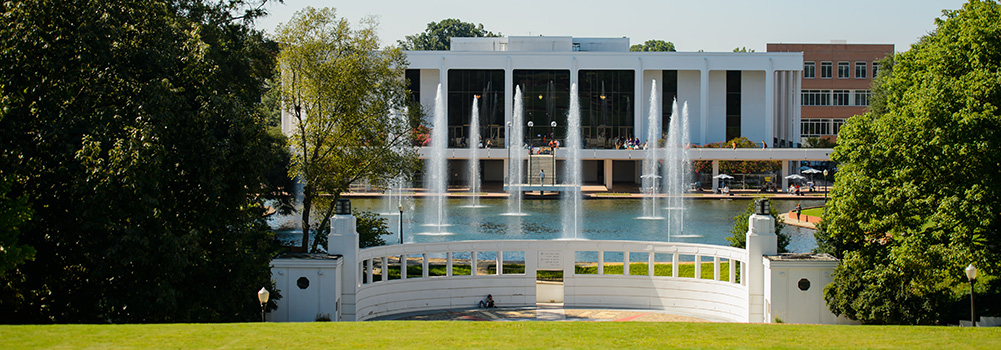
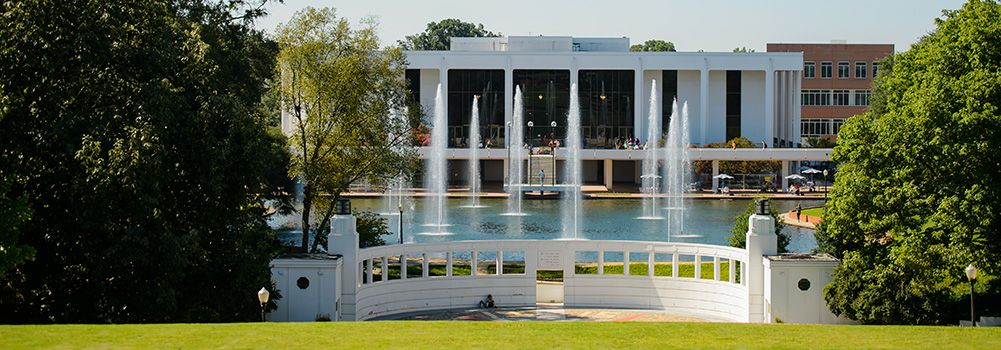
Optimize assests and prepare for web build

diff --git a/packages/backend/src/routes/data.ts b/packages/backend/src/routes/data.ts
@@ -70,8 +70,8 @@ const BUILDINGS: Building[] = [
     "WATT",
 ];
 
-export type Metric = 
-    "TEMP" | 
+export type Metric =
+    "TEMP" |
     "CO2";
 
 export const SENSORS = [
@@ -138,7 +138,7 @@ mobileSensorData.connect(connectionHandler(1, mobileSensorData, shades, async ()
                                 AND (Sensor='${sensor}')
                                 AND (DateTime > DATEADD(HOUR, -1, GETDATE()))
                                 ORDER BY [DATETIME] DESC`;
-            
+
             const data = await mobileSensorData.query<MobileSensoryEntry>(query);
 
             if (data.recordset.length > 0) {
@@ -253,7 +253,6 @@ router.get("/api/live", async (req, res) => {
                 // Insert box data if it exists
                 data = [...record].map(room => {
                     if (boxTempData.has(+room.PointSliceID)) {
-                        console.log(room);
                         room.ActualValue = boxTempData.get(+room.PointSliceID) as number;
                     }
 
@@ -261,8 +260,6 @@ router.get("/api/live", async (req, res) => {
                 });
 
             };
-
-
 
             res.status(200).json({
                 "status": "ok",
@@ -287,9 +284,6 @@ router.get("/api/live", async (req, res) => {
                     "error_message": `Database Error: ${err instanceof Error ? err.message : "Unknown Error"}`
                 });
             }
-
-
-
         }
     }
 });
@@ -390,10 +384,10 @@ router.get('/api/XREF', async (req, res) => {
         try {
             const result = await thermostatData.query<XrefEntry>(`SELECT [PointSliceID], [Room], [RoomType], [BLG], [Floor], [ReadingType], [Alias] FROM [WFIC-CEVAC].[dbo].[CEVAC_${building}_${sensor}_XREF]`);
 
-            const record = result.recordsets[0].map(r => ({...r, "BLG": r.BLG.toUpperCase()}));
+            const record = result.recordsets[0].map(r => ({ ...r, "BLG": r.BLG.toUpperCase() }));
 
             // In WATT TEMP, artificially add RM 319 to the list of rooms
-            if (building == "WATT" && sensor == "TEMP") {   
+            if (building == "WATT" && sensor == "TEMP") {
                 record.push({
                     "PointSliceID": 8939,
                     "Room": "319",

diff --git a/packages/frontend/app.config.js b/packages/frontend/app.config.js
@@ -30,6 +30,6 @@ export default {
     favicon: './assets/favicon.png',
   },
   extra: {
-    endpoint: "http://198.21.196.214:3000"
+    endpoint: "http://fmo14.clemson.edu"
   },
 };

diff --git a/packages/frontend/.expo-shared/README.md b/packages/frontend/.expo-shared/README.md
@@ -1,0 +1,11 @@
+> Why do I have a folder named ".expo-shared" in my project?
+
+The ".expo-shared" folder is created when running commands that produce state that is intended to be shared with all developers on the project. For example, "npx expo-optimize".
+
+> What does the "assets.json" file contain?
+
+The "assets.json" file describes the assets that have been optimized through "expo-optimize" and do not need to be processed again.
+
+> Should I commit the ".expo-shared" folder?
+
+Yes, you should share the ".expo-shared" folder with your collaborators.
